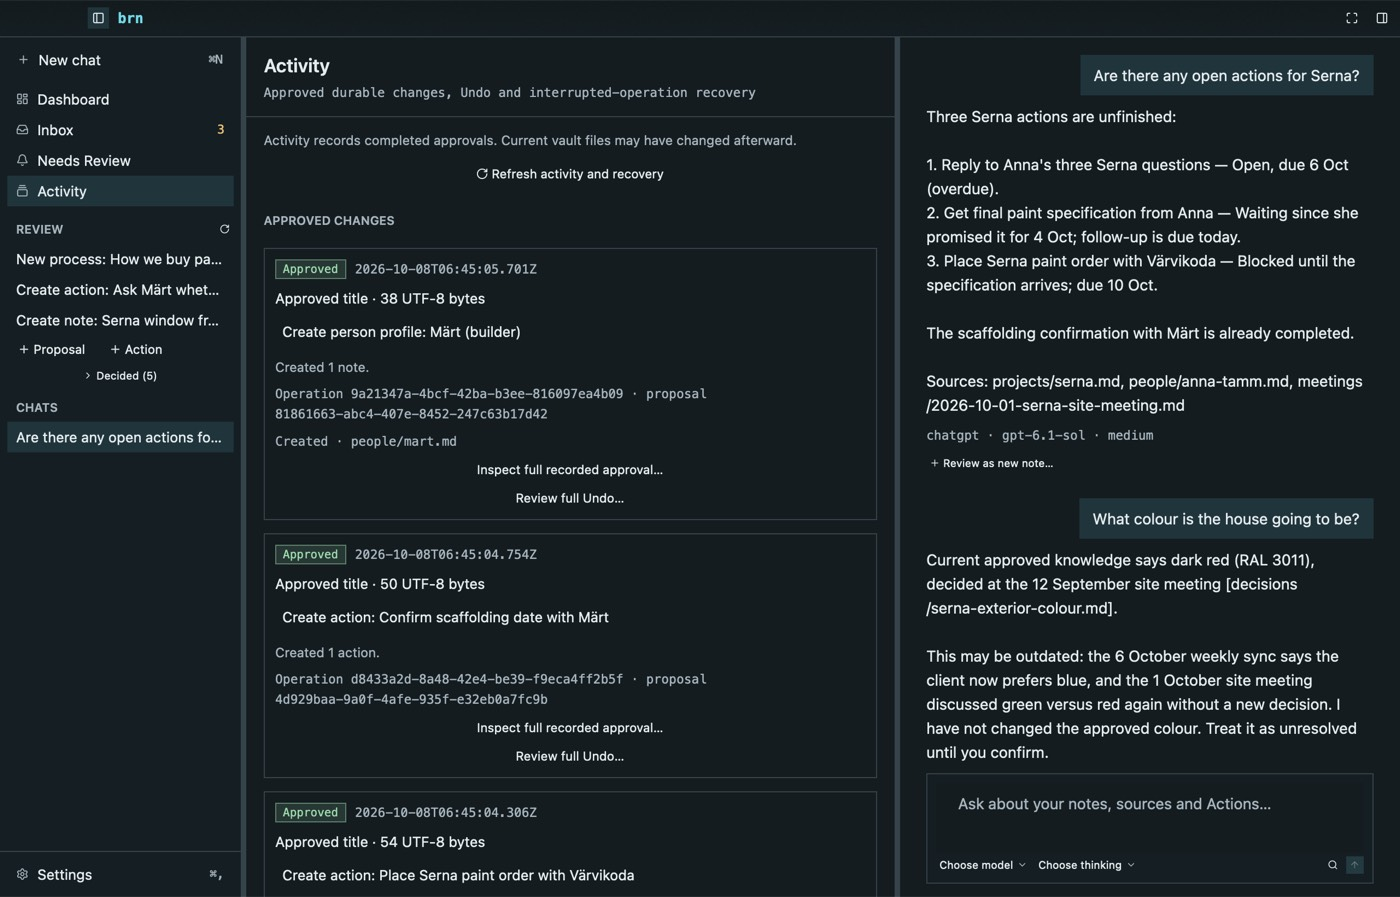
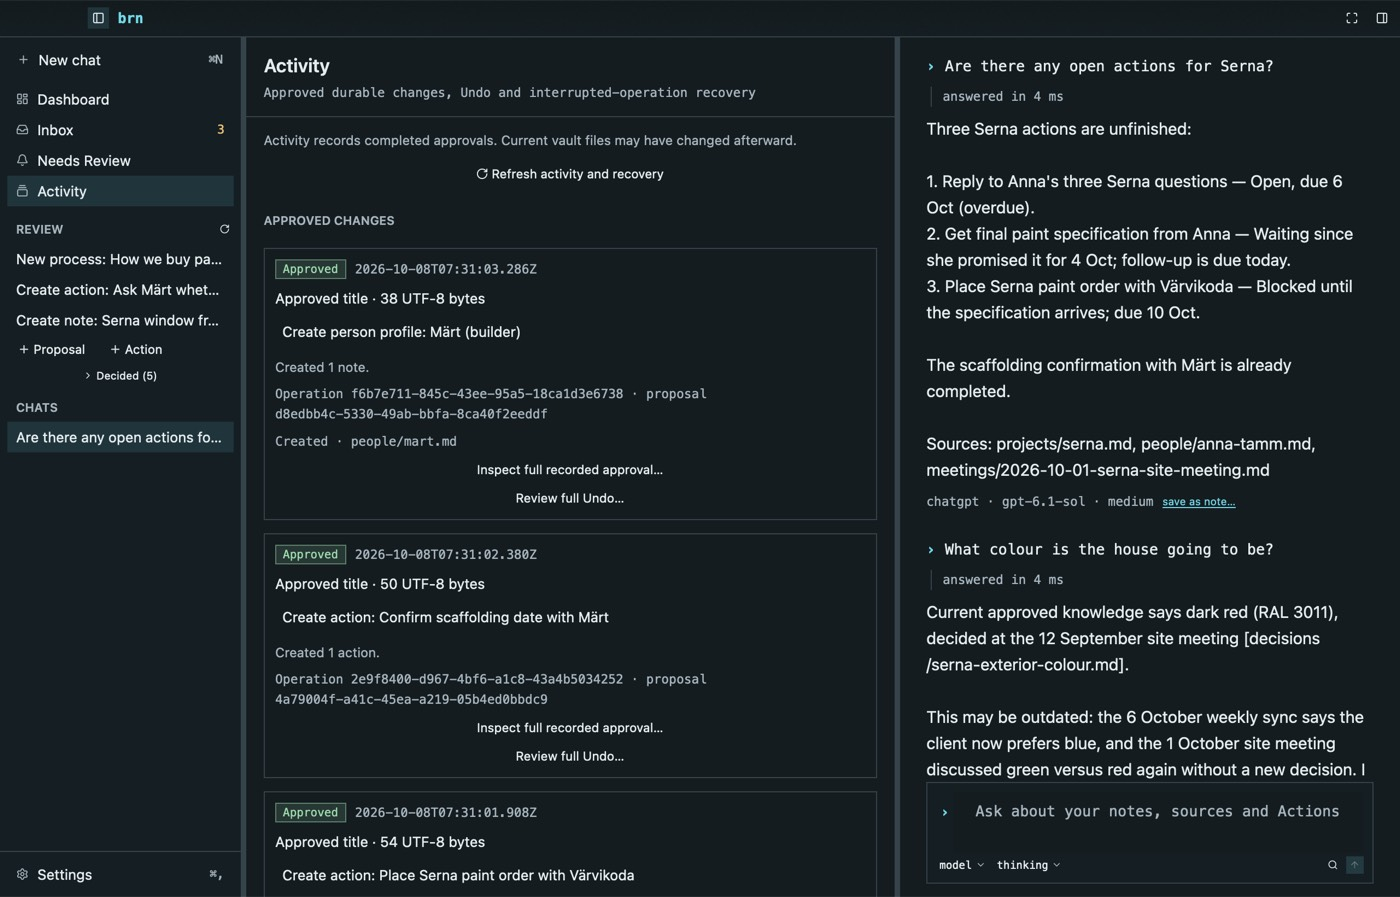
desktop: Hybrid terminal chat (owner choice D23)
Questions as a mono `›` prompt line, a mono trace line (live tool while
streaming, recorded duration when finished; no invented steps), answers
in the reading font, a mono footer with the recorded provider/model/effort
and an inline 'save as note…' link, and a `›` mono composer with mono
model/thinking pickers. Claim tags and per-step traces need workflow data
and remain future. Handbook decisions, components and screenshots updated.

diff --git a/crates/brn-desktop/src/native/simple.rs b/crates/brn-desktop/src/native/simple.rs
@@ -2012,7 +2012,6 @@ impl Desktop {
     }
     pub(super) fn render_simple_chat(&mut self, cx: &mut Context<Self>) -> AnyElement {
         use super::ui::{self, Tone};
-        use gpui_kit::assets::IconName;
         let p = self.palette();
         let ai = self.ai.as_ref().unwrap();
         let blocked = self.closing.is_some() || self.closed || self.close_failed;
@@ -2039,9 +2038,15 @@ impl Desktop {
                 .inbox_analysis_path_for_turn(turn.id)
                 .map(|path| format!("Analyze saved Inbox Source: {path}"))
                 .unwrap_or_else(|| turn.question.clone());
-            let mut block = chat_exchange(
-                question,
-                turn.answer.clone(),
+            // Hybrid trace: only what was recorded (duration), never invented steps.
+            let trace = match (turn.started_at_ms, turn.finished_at_ms) {
+                (Some(start), Some(end)) if end >= start => {
+                    Some(format!("answered in {}", elapsed_label(end - start)))
+                }
+                _ => None,
+            };
+            let mut block = chat_exchange(question, trace, turn.answer.clone(), p);
+            let mut footer = chat_footer(
                 format!(
                     "{} · {} · {}",
                     turn.provider,
@@ -2062,12 +2067,10 @@ impl Desktop {
             }
             if turn.status == brn_workflow::WorkTurnStatus::Completed {
                 let id = turn.id;
-                block = block.child(
-                    ui::toolbar().child(
-                        Button::new(format!("review-completed-answer-{id}"))
-                            .icon(IconName::Plus)
-                            .label("Review as new note…")
-                            .ghost()
+                footer = footer.child(
+                    Button::new(format!("review-completed-answer-{id}"))
+                            .label("save as note…")
+                            .link()
                             .xsmall()
                             .tooltip("Prepare a note proposal from this answer. Nothing is saved until you approve it.")
                             .disabled(
@@ -2076,17 +2079,15 @@ impl Desktop {
                             .on_click(cx.listener(move |this, _, _, cx| {
                                 this.simple_leave(EditorTransition::Draft(Some(id)), cx)
                             })),
-                    ),
                 );
             }
-            column = column.child(block);
+            column = column.child(block.child(footer));
         }
         if let Some(turn) = &ai.unsaved {
             let partial = turn.answer.clone();
             column = column.child(
-                chat_exchange(
-                    turn.question.clone(),
-                    turn.answer.clone(),
+                chat_exchange(turn.question.clone(), None, turn.answer.clone(), p)
+                .child(chat_footer(
                     format!(
                         "{} · {} · {}",
                         turn.provider,
@@ -2099,7 +2100,7 @@ impl Desktop {
                         p,
                     )),
                     p,
-                )
+                ))
                 .child(ui::callout(
                     Tone::Danger,
                     "Copy this partial before closing/restarting. Further Ask is blocked until this unfinalized workspace is reopened.",
@@ -2116,33 +2117,39 @@ impl Desktop {
             );
         }
         if let Some(active) = ai.display_active() {
-            let mut block = chat_exchange(
-                active.request.question_label(),
-                active.partial.clone(),
-                format!(
-                    "{} · {} · {}",
-                    provider_name(active.request.selection().provider),
-                    active.request.selection().model,
-                    active
-                        .request
-                        .effort()
-                        .map(ReasoningEffort::as_str)
-                        .unwrap_or("effort unavailable"),
-                ),
-                Some(ui::badge(
-                    if active.stopping {
-                        "Stopping (not finalized)"
-                    } else {
-                        "Streaming (provisional)"
-                    },
-                    Tone::Ai,
+            let trace = Some(match &active.tool {
+                Some(tool) => format!("working · {tool}"),
+                None => "working…".to_owned(),
+            });
+            let answer = if active.partial.is_empty() {
+                "…".to_owned()
+            } else {
+                active.partial.clone()
+            };
+            let block = chat_exchange(active.request.question_label(), trace, answer, p).child(
+                chat_footer(
+                    format!(
+                        "{} · {} · {}",
+                        provider_name(active.request.selection().provider),
+                        active.request.selection().model,
+                        active
+                            .request
+                            .effort()
+                            .map(ReasoningEffort::as_str)
+                            .unwrap_or("effort unavailable"),
+                    ),
+                    Some(ui::badge(
+                        if active.stopping {
+                            "Stopping (not finalized)"
+                        } else {
+                            "Streaming (provisional)"
+                        },
+                        Tone::Ai,
+                        p,
+                    )),
                     p,
-                )),
-                p,
+                ),
             );
-            if let Some(tool) = &active.tool {
-                block = block.child(ui::meta(format!("Tool started: {tool}"), p));
-            }
             column = column.child(block);
         }
         if let Some(results) = &ai.search {
@@ -2307,11 +2314,12 @@ impl Desktop {
         let model_label = current
             .as_ref()
             .map(|selection| selection.model.clone())
-            .unwrap_or_else(|| "Choose model".into());
+            .unwrap_or_else(|| "model".into());
         let model_picker = {
             let desktop = desktop.clone();
             Button::new("composer-model")
                 .label(model_label)
+                .font_family(tokens::MONO_FONT)
                 .ghost()
                 .xsmall()
                 .dropdown_caret(true)
@@ -2363,11 +2371,12 @@ impl Desktop {
             let desktop = desktop.clone();
             Button::new("composer-effort")
                 .label(match effort {
-                    Some(ReasoningEffort::Low) => "Low thinking",
-                    Some(ReasoningEffort::Medium) => "Medium thinking",
-                    Some(ReasoningEffort::High) => "High thinking",
-                    None => "Choose thinking",
+                    Some(ReasoningEffort::Low) => "low",
+                    Some(ReasoningEffort::Medium) => "medium",
+                    Some(ReasoningEffort::High) => "high",
+                    None => "thinking",
                 })
+                .font_family(tokens::MONO_FONT)
                 .ghost()
                 .xsmall()
                 .dropdown_caret(true)
@@ -2444,55 +2453,102 @@ impl Desktop {
             .border_color(color(p.line))
             .bg(color(p.panel))
             .child(
-                Editor::new(&self.query)
-                    .h(px(64.))
-                    .bordered(false)
-                    .font_family(tokens::UI_FONT)
-                    .text_size(px(tokens::text::READING))
-                    .aria_label("Question about saved notes"),
+                div()
+                    .flex()
+                    .items_start()
+                    .gap(px(tokens::space::XS))
+                    .child(
+                        div()
+                            .pt(px(tokens::space::SM))
+                            .pl(px(tokens::space::XS))
+                            .font_family(tokens::MONO_FONT)
+                            .font_weight(gpui_kit::FontWeight::BOLD)
+                            .text_color(color(p.cyan))
+                            .child("›"),
+                    )
+                    .child(
+                        div().flex_1().min_w(px(0.)).child(
+                            Editor::new(&self.query)
+                                .h(px(56.))
+                                .bordered(false)
+                                .font_family(tokens::MONO_FONT)
+                                .text_size(px(tokens::text::READING - 0.5))
+                                .aria_label("Question about saved notes"),
+                        ),
+                    ),
             )
             .child(actions)
             .into_any_element()
     }
 }
 
-/// One question and its answer, with the answer's recorded provider/model/effort.
+/// Hybrid terminal exchange (decision D23): a monospace `›` prompt line, an
+/// optional monospace trace line, and the answer in the reading font.
 fn chat_exchange(
     question: String,
+    trace: Option<String>,
     answer: String,
+    p: crate::tokens::Palette,
+) -> gpui_kit::Div {
+    let mut block = div().flex().flex_col().gap(px(tokens::space::SM)).child(
+        div()
+            .flex()
+            .items_start()
+            .gap(px(tokens::space::SM))
+            .font_family(tokens::MONO_FONT)
+            .text_size(px(tokens::text::READING - 0.5))
+            .line_height(px(21.))
+            .child(
+                div()
+                    .flex_shrink_0()
+                    .font_weight(gpui_kit::FontWeight::BOLD)
+                    .text_color(color(p.cyan))
+                    .child("›"),
+            )
+            .child(div().flex_1().min_w(px(0.)).child(question)),
+    );
+    if let Some(trace) = trace {
+        block = block.child(
+            div()
+                .ml(px(4.))
+                .pl(px(tokens::space::SM + 2.))
+                .border_l_1()
+                .border_color(color(p.line))
+                .font_family(tokens::MONO_FONT)
+                .text_size(px(tokens::text::META))
+                .text_color(color(p.muted))
+                .child(trace),
+        );
+    }
+    block.child(
+        div()
+            .text_size(px(tokens::text::READING + 1.0))
+            .line_height(px(24.))
+            .child(answer),
+    )
+}
+
+/// Monospace footer under an answer: recorded provider · model · effort, an
+/// optional non-normal status, then small inline commands.
+fn chat_footer(
     provenance: String,
     status: Option<gpui_kit::Div>,
     p: crate::tokens::Palette,
 ) -> gpui_kit::Div {
     use super::ui;
-    div()
-        .flex()
-        .flex_col()
+    ui::toolbar()
         .gap(px(tokens::space::SM))
-        .child(
-            div().flex().justify_end().child(
-                div()
-                    .max_w(px(tokens::size::READING_MAX_WIDTH * 0.8))
-                    .px(px(tokens::space::MD))
-                    .py(px(tokens::space::SM))
-                    .bg(color(p.active))
-                    .text_size(px(tokens::text::READING))
-                    .line_height(px(21.))
-                    .child(question),
-            ),
-        )
-        .child(
-            div()
-                .text_size(px(tokens::text::READING))
-                .line_height(px(22.))
-                .child(answer),
-        )
-        .child(
-            ui::toolbar()
-                .gap(px(tokens::space::XS))
-                .child(ui::meta(provenance, p))
-                .children(status),
-        )
+        .child(ui::meta(provenance, p))
+        .children(status)
+}
+
+/// Compact elapsed time: `850 ms`, `41 s`, `3 min 5 s`.
+fn elapsed_label(ms: u64) -> String {
+    match ms {
+        0..1_000 => format!("{ms} ms"),
+        1_000..60_000 => format!("{} s", ms / 1_000),
+        _ => format!("{} min {} s", ms / 60_000, (ms % 60_000) / 1_000),
+    }
 }
 
 pub(super) fn account_settings(desktop: &Entity<Desktop>, cx: &App) -> AnyElement {

diff --git a/crates/brn-desktop/src/native/mod.rs b/crates/brn-desktop/src/native/mod.rs
@@ -220,7 +220,7 @@ impl Desktop {
                 .line_number(false)
                 .folding(false)
                 .soft_wrap(true)
-                .placeholder("Ask about your notes, sources and Actions…")
+                .placeholder("Ask about your notes, sources and Actions")
                 .default_value("")
         });
         let note_editor = cx.new(|cx| {

diff --git a/docs/design/src/decisions.md b/docs/design/src/decisions.md
@@ -27,7 +27,8 @@ owner column. Add new decisions at the end; supersede rather than rewrite.
 | D19 | Keep the refined-terminal theme | Owner liked it (feedback 2026-10-07) | Liked; formal acceptance pending |
 | D20 | Composer always at the bottom | Owner direction, implemented | Owner feedback 2026-10-08 |
 | D21 | Writing review: compact header, prominent prose text, visible comment highlights with hover | Owner direction, implemented | Owner feedback 2026-10-08 |
-| D22 | Terminal-style chat: three directions prototyped, Hybrid recommended | Proposed, prototype | Owner choice pending |
+| D22 | Terminal-style chat: three directions prototyped, Hybrid recommended | Decided by D23 | Owner chose Hybrid 2026-10-08 |
+| D23 | Hybrid terminal chat | Owner direction, implemented (partial: no claim tags yet) | Owner choice 2026-10-08 |
 
 ## D1 Keep the refined-terminal identity, correct its typography
 
@@ -170,6 +171,17 @@ Owner request 2026-10-08. [Prototype](prototypes.md#terminal-style-chat-directio
 answers with claim chips — *recommended*: terminal feel without losing reading
 comfort for long answers), **3 · Command blocks** (each turn a block with
 actions; `/` command menu). Not implemented; waiting for the owner's choice.
+
+## D23 Hybrid terminal chat
+
+Owner chose the Hybrid direction (2026-10-08). Implemented: questions as a
+monospace `›` prompt line; a monospace trace line with left rule (live tool while
+streaming, recorded duration when finished — never invented steps); answers in
+the reading font at 15 pt; a monospace footer with the recorded provider · model ·
+effort and an inline *save as note…* link; the composer with a `›` prompt,
+monospace input and monospace model/thinking pickers. Not yet implemented
+because the workflow does not provide the data: inline claim tags
+(`vault`/`unknown`/`conflict`), per-step trace and token counts.
 
 ## Earlier design material reconciled
 

diff --git a/docs/design/src/components.md b/docs/design/src/components.md
@@ -21,7 +21,7 @@ themed by [`theme.rs`](../../../crates/brn-desktop/src/native/theme.rs).
 | Button tiers | `ui::primary`, `ui::secondary`, `ui::quiet`, or `Button` + `.primary()/.outline()/.ghost()/.danger()` | See below | — | Implemented |
 | Count tile | inline in [`dashboard.rs`](../../../crates/brn-desktop/src/native/dashboard.rs) | Dashboard counts; tone only when non-zero | General statistics | Implemented (candidate for `ui`) |
 | Decision bar | inline in [`review.rs`](../../../crates/brn-desktop/src/native/review.rs) | Persistent bottom bar for a proposal decision | Non-binding actions | Implemented (candidate for `ui`) |
-| Chat exchange | `chat_exchange` in [`simple.rs`](../../../crates/brn-desktop/src/native/simple.rs) | Right-aligned question bubble, plain answer, quiet recorded provider · model · effort line; a status badge only when not Completed | — | Implemented |
+| Chat exchange | `chat_exchange` / `chat_footer` in [`simple.rs`](../../../crates/brn-desktop/src/native/simple.rs) | Hybrid terminal (D23): mono `›` question, mono trace line, answer in reading font, mono footer with recorded provider · model · effort; status badge only when not Completed | — | Implemented |
 | Composer pickers | `render_composer` in [`simple.rs`](../../../crates/brn-desktop/src/native/simple.rs) | Model and thinking-effort dropdowns in the composer; same commands as Settings | Account connection (stays in Settings) | Implemented |
 | More options | `tools_toggle` in [`simple.rs`](../../../crates/brn-desktop/src/native/simple.rs) | Hiding rarely needed recovery/advanced commands; they show automatically when needed | Primary actions | Implemented |
 | Claim chip | prototype `.chip` | Inline provenance label on a claim | — | Prototype |

diff --git a/docs/design/src/verification.md b/docs/design/src/verification.md
@@ -85,6 +85,7 @@ exercised by hand.
 | Design direction and decisions D1–D15 | *Pending review* | — |
 | D16–D18 (minimal layout, composer pickers, right-click comments) | Owner-directed; result pending your next look | 2026-10-07 |
 | D20–D21 (bottom composer, writing review) | Owner-directed; result pending your next look | 2026-10-08 |
-| D22 terminal chat direction | *Choice pending* | — |
+| D22 terminal chat direction | Owner chose Hybrid (D23) | 2026-10-08 |
+| D23 Hybrid chat as implemented | Pending your next look | — |
 | Current-app restyle on this branch | *Pending review* | — |
 | Future designs and prototype | *Pending review* | — |
